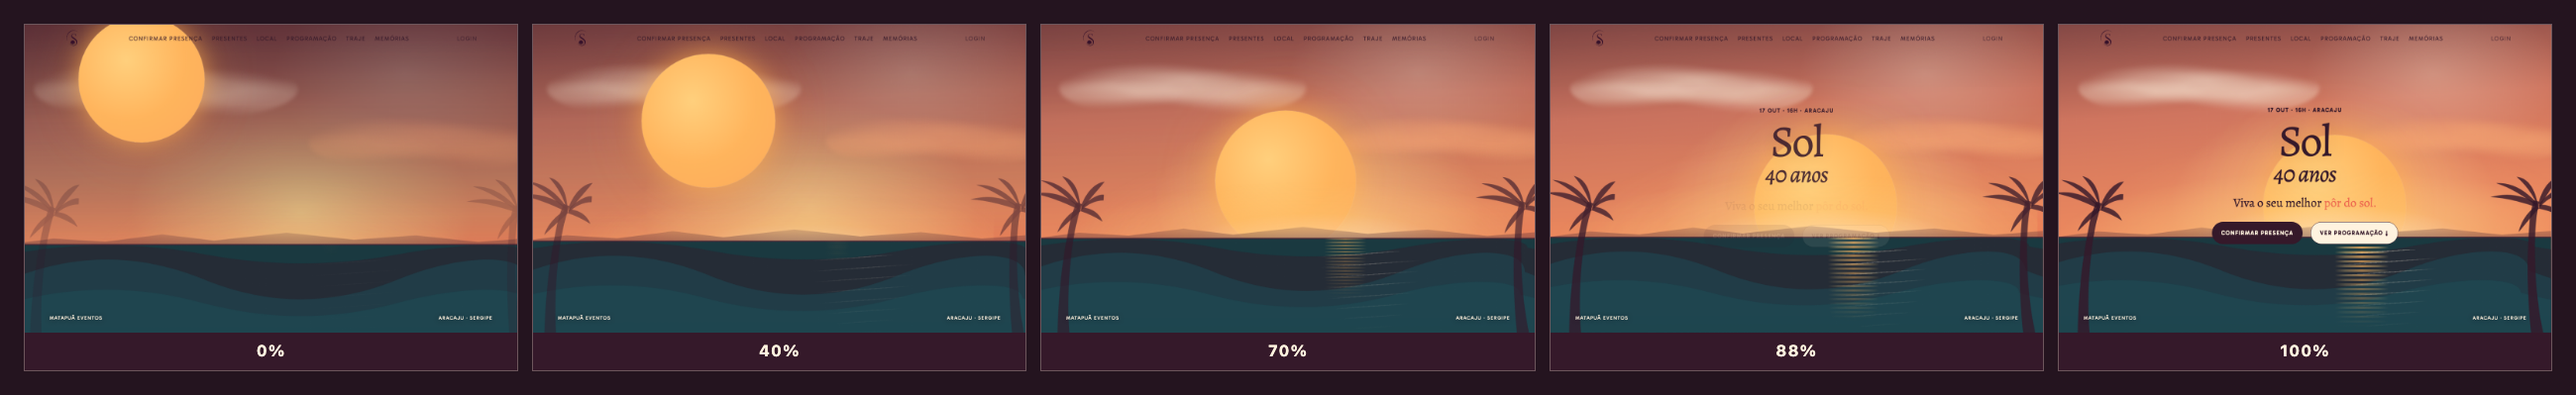
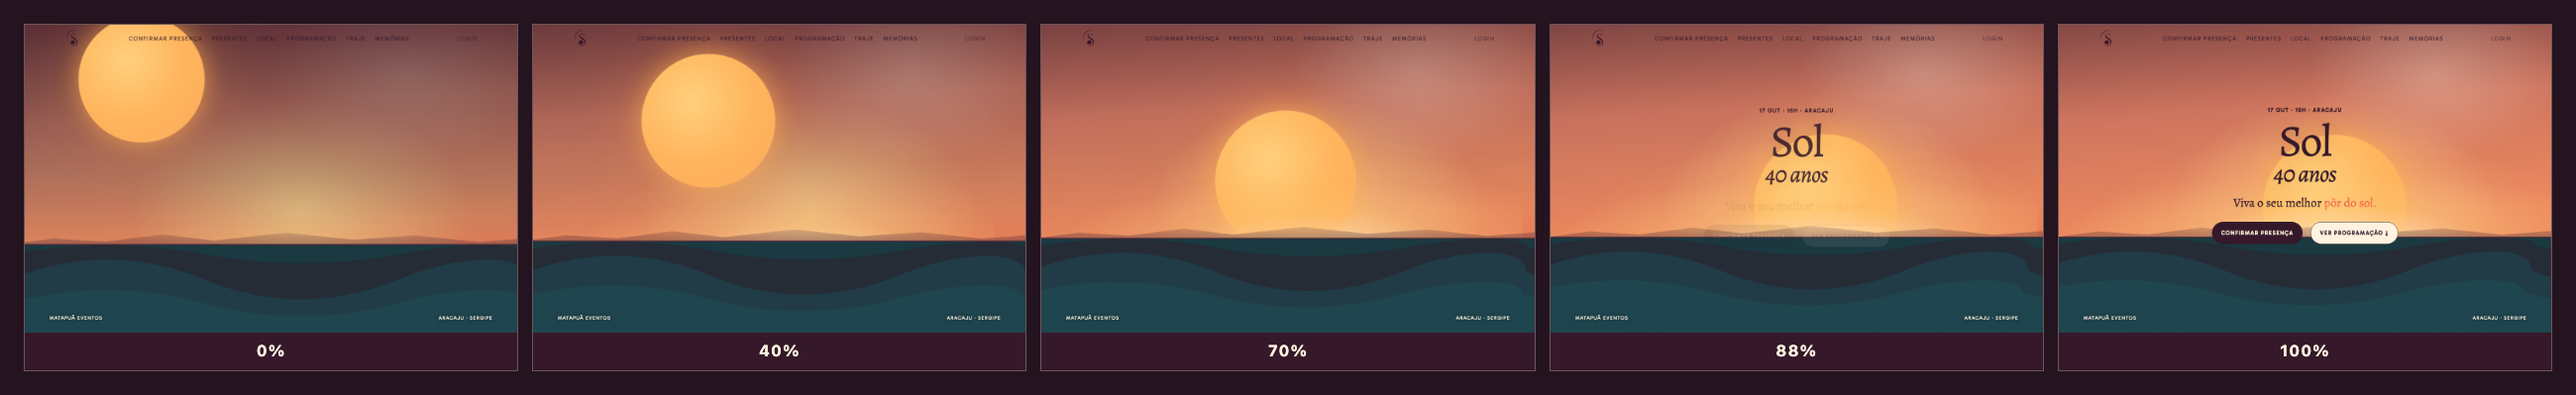
fix(10-01): simplify storyboard from visual feedback
Remove clouds, water reflections, and palm silhouettes from the intro structure and timeline. Regenerate deterministic desktop and mobile storyboard evidence.

diff --git a/src/components/invite/Hero.tsx b/src/components/invite/Hero.tsx
@@ -18,35 +18,6 @@ export type HeroProps = {
 const PRIMARY_COPY_ONSET = 0.76
 const SECONDARY_COPY_ONSET = 0.88
 
-type PalmSilhouetteProps = {
-  side: 'left' | 'right'
-}
-
-function PalmSilhouette({ side }: PalmSilhouetteProps) {
-  return (
-    <svg
-      viewBox="0 0 120 260"
-      preserveAspectRatio="xMidYMax meet"
-      className={`cinematic-palm cinematic-palm--${side}`}
-      aria-hidden="true"
-    >
-      <path
-        d="M58 260 C56 205 57 145 68 75 C70 62 73 52 77 41 L86 44 C79 66 75 94 73 126 C70 176 72 222 78 260 Z"
-        fill="currentColor"
-      />
-      <g className="cinematic-palm__crown" fill="currentColor">
-        <path d="M82 47 C60 31 35 25 7 31 C34 34 57 43 80 52 Z" />
-        <path d="M82 46 C62 21 43 10 18 9 C41 18 60 32 82 51 Z" />
-        <path d="M83 45 C79 19 69 4 52 1 C66 15 76 31 83 51 Z" />
-        <path d="M85 45 C93 21 107 8 120 6 C109 21 98 35 86 51 Z" />
-        <path d="M86 47 C102 31 113 26 120 27 L120 36 C106 37 96 43 86 53 Z" />
-        <path d="M85 49 C103 49 115 58 120 70 C106 62 95 58 84 55 Z" />
-        <path d="M82 49 C65 60 54 74 49 91 C63 76 73 66 84 55 Z" />
-      </g>
-    </svg>
-  )
-}
-
 /**
  * O hero é o próprio plano-sequência: todas as camadas existem do primeiro
  * ao último frame, e o único disco solar termina naturalmente no seu wrapper
@@ -182,32 +153,6 @@ export function Hero({
           ],
         },
         {
-          track: 'cloud-far',
-          keyframes: [
-            {
-              offset: 0,
-              opacity: 0.58,
-              transform: mobile
-                ? 'translate3d(-3%, 2%, 0) scale(1.03)'
-                : 'translate3d(2.5%, 2%, 0) scale(1.04)',
-            },
-            { offset: 1, opacity: 1, transform: 'none' },
-          ],
-        },
-        {
-          track: 'cloud-near',
-          keyframes: [
-            {
-              offset: 0,
-              opacity: 0.42,
-              transform: mobile
-                ? 'translate3d(7%, 4%, 0) scale(1.06)'
-                : 'translate3d(-7%, 4%, 0) scale(1.08)',
-            },
-            { offset: 1, opacity: 1, transform: 'none' },
-          ],
-        },
-        {
           track: 'sun-arc',
           keyframes: [
             {
@@ -233,46 +178,6 @@ export function Hero({
           keyframes: [
             { offset: 0, opacity: 0.2, transform: 'scale3d(.72, .62, 1)' },
             { offset: 0.7, opacity: 0.72, transform: 'scale3d(.94, .9, 1)' },
-            { offset: 1, opacity: 1, transform: 'none' },
-          ],
-        },
-        {
-          track: 'reflection',
-          keyframes: [
-            { offset: 0, opacity: 0.04, transform: 'scale3d(.34, .16, 1)' },
-            { offset: 0.4, opacity: 0.12, transform: 'scale3d(.46, .26, 1)' },
-            { offset: 0.7, opacity: 0.56, transform: 'scale3d(.78, .68, 1)' },
-            { offset: 0.88, opacity: 0.9, transform: 'scale3d(.96, .94, 1)' },
-            { offset: 1, opacity: 1, transform: 'none' },
-          ],
-        },
-        {
-          track: 'wave-light',
-          keyframes: [
-            { offset: 0, opacity: 0.08, transform: 'translate3d(0, 6px, 0)' },
-            { offset: 0.7, opacity: 0.58, transform: 'translate3d(0, 2px, 0)' },
-            { offset: 1, opacity: 1, transform: 'none' },
-          ],
-        },
-        {
-          track: 'palm-left',
-          keyframes: [
-            {
-              offset: 0,
-              opacity: mobile ? 0.62 : 0.3,
-              transform: 'translate3d(-2.5%, 1.5%, 0) scale(1.025)',
-            },
-            { offset: 1, opacity: 1, transform: 'none' },
-          ],
-        },
-        {
-          track: 'palm-right',
-          keyframes: [
-            {
-              offset: 0,
-              opacity: mobile ? 0.58 : 0.26,
-              transform: 'translate3d(2.5%, 2%, 0) scale(1.03)',
-            },
             { offset: 1, opacity: 1, transform: 'none' },
           ],
         },
@@ -396,17 +301,6 @@ export function Hero({
           />
 
           <div
-            data-intro-layer="cloud-far"
-            data-intro-track="cloud-far"
-            className="cinematic-cloud cinematic-cloud--far absolute"
-          />
-          <div
-            data-intro-layer="cloud-near"
-            data-intro-track="cloud-near"
-            className="cinematic-cloud cinematic-cloud--near absolute"
-          />
-
-          <div
             data-intro-sun-target
             className="cinematic-sun-target absolute"
           >
@@ -429,36 +323,10 @@ export function Hero({
             className="cinematic-horizon-depth absolute inset-x-0"
           />
           <div
-            data-intro-layer="reflection"
-            data-intro-track="reflection"
-            className="cinematic-reflection absolute"
-          />
-
-          <div
             data-intro-layer="sea"
             className="absolute inset-0"
           >
             <SeaWaves />
-          </div>
-          <div
-            data-intro-layer="wave-light"
-            data-intro-track="wave-light"
-            className="cinematic-wave-light absolute"
-          />
-
-          <div
-            data-intro-layer="palm-left"
-            data-intro-track="palm-left"
-            className="cinematic-palm-wrap cinematic-palm-wrap--left absolute"
-          >
-            <PalmSilhouette side="left" />
-          </div>
-          <div
-            data-intro-layer="palm-right"
-            data-intro-track="palm-right"
-            className="cinematic-palm-wrap cinematic-palm-wrap--right absolute"
-          >
-            <PalmSilhouette side="right" />
           </div>
 
           <div

diff --git a/src/index.css b/src/index.css
@@ -132,7 +132,6 @@ body {
   --intro-sun-x: 56%;
   --intro-sun-y: 59%;
   --intro-sun-size: clamp(17rem, 29vw, 30rem);
-  --intro-reflection-width: clamp(5.5rem, 11vw, 9.5rem);
 }
 
 .cinematic-camera {
@@ -185,33 +184,6 @@ body {
       color-mix(in srgb, var(--color-peach) 48%, transparent) 32%,
       transparent 68%
     );
-}
-
-.cinematic-cloud {
-  z-index: 2;
-  border-radius: 50%;
-  background:
-    radial-gradient(ellipse at 18% 58%, currentColor 0 12%, transparent 31%),
-    radial-gradient(ellipse at 38% 42%, currentColor 0 19%, transparent 42%),
-    radial-gradient(ellipse at 61% 49%, currentColor 0 21%, transparent 45%),
-    radial-gradient(ellipse at 83% 63%, currentColor 0 13%, transparent 34%);
-  filter: blur(5px);
-}
-
-.cinematic-cloud--far {
-  top: 11%;
-  left: 4%;
-  width: min(49vw, 42rem);
-  height: clamp(5rem, 12vw, 10rem);
-  color: color-mix(in srgb, var(--color-cream) 34%, transparent);
-}
-
-.cinematic-cloud--near {
-  top: 28%;
-  right: -5%;
-  width: min(43vw, 35rem);
-  height: clamp(5rem, 11vw, 9rem);
-  color: color-mix(in srgb, var(--color-peach) 48%, transparent);
 }
 
 .cinematic-sun-target {
@@ -286,82 +258,6 @@ body {
   z-index: 6;
 }
 
-.cinematic-reflection {
-  top: var(--intro-horizon-y);
-  left: var(--intro-sun-x);
-  z-index: 7;
-  width: var(--intro-reflection-width);
-  height: calc(100% - var(--intro-horizon-y));
-  transform: translateX(-50%);
-  transform-origin: top center;
-  background:
-    linear-gradient(
-      90deg,
-      transparent 0%,
-      color-mix(in srgb, var(--color-sun-soft) 44%, transparent) 20%,
-      color-mix(in srgb, var(--color-sun) 86%, transparent) 50%,
-      color-mix(in srgb, var(--color-sun-soft) 44%, transparent) 80%,
-      transparent 100%
-    );
-  mask-image:
-    repeating-linear-gradient(
-      180deg,
-      var(--color-ink) 0 .4rem,
-      transparent .4rem .75rem
-    ),
-    linear-gradient(180deg, var(--color-ink), transparent 94%);
-  mask-composite: intersect;
-}
-
-.cinematic-wave-light {
-  top: calc(var(--intro-horizon-y) + 4%);
-  left: var(--intro-sun-x);
-  z-index: 8;
-  width: calc(var(--intro-reflection-width) * 1.9);
-  height: calc(100% - var(--intro-horizon-y) - 4%);
-  transform: translateX(-50%);
-  background:
-    repeating-linear-gradient(
-      176deg,
-      transparent 0 .8rem,
-      color-mix(in srgb, var(--color-cream) 40%, transparent) .8rem .94rem,
-      transparent .94rem 1.7rem
-    );
-  mask-image: radial-gradient(ellipse at 50% 0%, var(--color-ink), transparent 72%);
-}
-
-.cinematic-palm-wrap {
-  bottom: -1%;
-  z-index: 9;
-  width: clamp(8.5rem, 15vw, 14rem);
-  height: min(56%, 34rem);
-  color: color-mix(in srgb, var(--color-plum) 82%, transparent);
-  transform-origin: bottom center;
-}
-
-.cinematic-palm-wrap--left {
-  left: -2.5%;
-}
-
-.cinematic-palm-wrap--right {
-  right: -2.5%;
-  transform: scaleX(-1);
-}
-
-.cinematic-palm {
-  width: 100%;
-  height: 100%;
-  overflow: visible;
-}
-
-.cinematic-palm--right {
-  transform: rotate(-4deg);
-}
-
-.cinematic-palm--left {
-  transform: rotate(3deg);
-}
-
 .cinematic-texture {
   z-index: 10;
   background-image:
@@ -396,21 +292,6 @@ body {
     --intro-sun-x: 52%;
     --intro-sun-y: 64%;
     --intro-sun-size: clamp(12.5rem, 65vw, 15rem);
-    --intro-reflection-width: clamp(3.2rem, 21vw, 4.8rem);
-  }
-
-  .cinematic-cloud--far {
-    top: 9%;
-    left: -28%;
-    width: 100vw;
-    height: 7.5rem;
-  }
-
-  .cinematic-cloud--near {
-    top: 31%;
-    right: -46%;
-    width: 112vw;
-    height: 8.5rem;
   }
 
   .cinematic-haze {
@@ -421,21 +302,6 @@ body {
   .cinematic-horizon-depth {
     top: calc(var(--intro-horizon-y) - 5%);
     height: 6%;
-  }
-
-  .cinematic-palm-wrap {
-    bottom: -2%;
-    width: 10.5rem;
-    height: 48%;
-    color: color-mix(in srgb, var(--color-plum) 90%, transparent);
-  }
-
-  .cinematic-palm-wrap--left {
-    left: -22%;
-  }
-
-  .cinematic-palm-wrap--right {
-    right: -24%;
   }
 
   .cinematic-copy {

diff --git a/tests/cinematic-intro-visual.spec.ts b/tests/cinematic-intro-visual.spec.ts
@@ -299,7 +299,7 @@ test('storyboard tracks are finite, semantic and transform-opacity only', async 
   const contract = await page.evaluate(
     () => window.__pwCinematicIntroTimeline?.contracts() ?? [],
   )
-  expect(contract.length).toBeGreaterThanOrEqual(10)
+  expect(contract.length).toBeGreaterThanOrEqual(7)
   for (const track of contract) {
     expect(track.duration).toBe(INTRO_DURATION_MS)
     expect(track.iterations).toBe(1)
@@ -587,7 +587,18 @@ test('generates deterministic desktop and mobile cinematic contact sheets', asyn
   await expect(page.locator('[data-intro-layer="sky-base"]')).toBeVisible()
   await expect(page.locator('[data-intro-layer="horizon-depth"]')).toBeVisible()
   await expect(page.locator('[data-intro-layer="sea"]')).toBeVisible()
-  await expect(page.locator('[data-intro-layer="palm-left"]')).toBeVisible()
+  for (const removedLayer of [
+    'cloud-far',
+    'cloud-near',
+    'reflection',
+    'wave-light',
+    'palm-left',
+    'palm-right',
+  ]) {
+    await expect(
+      page.locator(`[data-intro-layer="${removedLayer}"]`),
+    ).toHaveCount(0)
+  }
   await expect(page.locator('[data-intro-sun]')).toHaveCount(1)
   await expect(page.locator('[data-intro-scene]')).toHaveCSS(
     'pointer-events',
